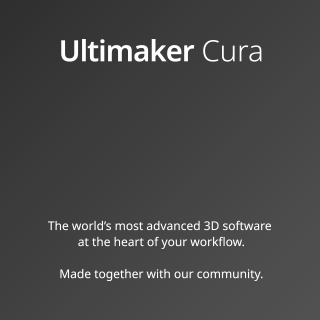
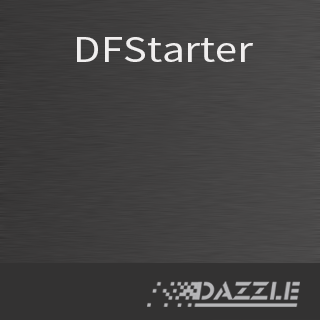
Modify Dazzle

diff --git a/resources/qml/WelcomePages/AddNetworkOrLocalPrinterContent.qml b/resources/qml/WelcomePages/AddNetworkOrLocalPrinterContent.qml
@@ -27,6 +27,7 @@ Item
         renderType: Text.NativeRendering
     }
 
+/*
     DropDownWidget
     {
         id: addNetworkPrinterDropDown
@@ -77,22 +78,30 @@ Item
             }
         }
     }
+*/
 
     DropDownWidget
     {
         id: addLocalPrinterDropDown
 
+        /*
         anchors.top: addNetworkPrinterDropDown.bottom
         anchors.left: parent.left
         anchors.right: parent.right
         anchors.topMargin: UM.Theme.getSize("default_margin").height
+        */
+        anchors.top: titleLabel.bottom
+        anchors.left: parent.left
+        anchors.right: parent.right
+        anchors.topMargin: UM.Theme.getSize("wide_margin").height
 
         title: catalog.i18nc("@label", "Add a non-networked printer")
 
-        onClicked:
-        {
-            addNetworkPrinterDropDown.contentShown = !contentShown
-        }
+//        onClicked:
+//        {
+//            addNetworkPrinterDropDown.contentShown = !contentShown
+//        }
+        contentShown: true
 
         contentComponent: localPrinterListComponent
 
@@ -135,11 +144,20 @@ Item
         enabled:
         {
             // If the network printer dropdown is expanded, make sure that there is a selected item
+            /*
             if (addNetworkPrinterDropDown.contentShown)
             {
                 return addNetworkPrinterDropDown.contentItem.currentItem != null
             }
             else
+            {
+                // Printer name cannot be empty
+                const localPrinterItem = addLocalPrinterDropDown.contentItem.currentItem
+                const isPrinterNameValid = addLocalPrinterDropDown.contentItem.isPrinterNameValid
+                return localPrinterItem != null && isPrinterNameValid
+            }
+            */
+            if (addLocalPrinterDropDown.contentShown)
             {
                 // Printer name cannot be empty
                 const localPrinterItem = addLocalPrinterDropDown.contentItem.currentItem
@@ -152,6 +170,7 @@ Item
         onClicked:
         {
             // Create a network printer or a local printer according to the selection
+            /*
             if (addNetworkPrinterDropDown.contentShown)
             {
                 // Create a network printer
@@ -165,6 +184,16 @@ Item
             else
             {
                 // Create a local printer
+                const localPrinterItem = addLocalPrinterDropDown.contentItem.currentItem
+                const printerName = addLocalPrinterDropDown.contentItem.printerName
+                if(Cura.MachineManager.addMachine(localPrinterItem.id, printerName))
+                {
+                    base.showNextPage()
+                }
+            }
+            */
+            if (addLocalPrinterDropDown.contentShown)
+            {
                 const localPrinterItem = addLocalPrinterDropDown.contentItem.currentItem
                 const printerName = addLocalPrinterDropDown.contentItem.printerName
                 if(Cura.MachineManager.addMachine(localPrinterItem.id, printerName))

diff --git a/resources/qml/MainWindow/ApplicationMenu.qml b/resources/qml/MainWindow/ApplicationMenu.qml
@@ -50,43 +50,43 @@ Item
 
         SettingsMenu { title: catalog.i18nc("@title:menu menubar:toplevel", "&Settings") }
 
-        Menu
-        {
-            id: extensionMenu
-            title: catalog.i18nc("@title:menu menubar:toplevel", "E&xtensions")
-
-            Instantiator
-            {
-                id: extensions
-                model: UM.ExtensionModel { }
-
-                Menu
-                {
-                    id: sub_menu
-                    title: model.name;
-                    visible: actions != null
-                    enabled: actions != null
-                    Instantiator
-                    {
-                        model: actions
-                        Loader
-                        {
-                            property var extensionsModel: extensions.model
-                            property var modelText: model.text
-                            property var extensionName: name
-
-                            sourceComponent: modelText.trim() == "" ? extensionsMenuSeparator : extensionsMenuItem
-                        }
-
-                        onObjectAdded: sub_menu.insertItem(index, object.item)
-                        onObjectRemoved: sub_menu.removeItem(object.item)
-                    }
-                }
-
-                onObjectAdded: extensionMenu.insertItem(index, object)
-                onObjectRemoved: extensionMenu.removeItem(object)
-            }
-        }
+//        Menu
+//        {
+//            id: extensionMenu
+//            title: catalog.i18nc("@title:menu menubar:toplevel", "E&xtensions")
+//
+//            Instantiator
+//            {
+//                id: extensions
+//                model: UM.ExtensionModel { }
+//
+//                Menu
+//                {
+//                    id: sub_menu
+//                    title: model.name;
+//                    visible: actions != null
+//                    enabled: actions != null
+//                    Instantiator
+//                    {
+//                        model: actions
+//                        Loader
+//                        {
+//                            property var extensionsModel: extensions.model
+//                            property var modelText: model.text
+//                            property var extensionName: name
+//
+//                            sourceComponent: modelText.trim() == "" ? extensionsMenuSeparator : extensionsMenuItem
+//                        }
+//
+//                        onObjectAdded: sub_menu.insertItem(index, object.item)
+//                        onObjectRemoved: sub_menu.removeItem(object.item)
+//                    }
+//                }
+//
+//                onObjectAdded: extensionMenu.insertItem(index, object)
+//                onObjectRemoved: extensionMenu.removeItem(object)
+//            }
+//        }
 
         Menu
         {

diff --git a/resources/qml/MainWindow/MainWindowHeader.qml b/resources/qml/MainWindow/MainWindowHeader.qml
@@ -19,19 +19,32 @@ Item
     implicitHeight: UM.Theme.getSize("main_window_header").height
     implicitWidth: UM.Theme.getSize("main_window_header").width
 
-    Image
-    {
-        id: logo
-        anchors.left: parent.left
-        anchors.leftMargin: UM.Theme.getSize("default_margin").width
-        anchors.verticalCenter: parent.verticalCenter
+//    Image
+//    {
+//        id: logo
+//        anchors.left: parent.left
+//        anchors.leftMargin: UM.Theme.getSize("default_margin").width
+//        anchors.verticalCenter: parent.verticalCenter
+//
+//        source: UM.Theme.getImage("logo")
+//        width: UM.Theme.getSize("logo").width
+//        height: UM.Theme.getSize("logo").height
+//        fillMode: Image.PreserveAspectFit
+//        sourceSize.width: width
+//        sourceSize.height: height
+//    }
 
-        source: UM.Theme.getImage("logo")
-        width: UM.Theme.getSize("logo").width
-        height: UM.Theme.getSize("logo").height
-        fillMode: Image.PreserveAspectFit
-        sourceSize.width: width
-        sourceSize.height: height
+// 公司logo
+    Text
+    {
+        text: "DAZZLE"
+        anchors.left: parent.left
+        anchors.leftMargin: 20
+        anchors.verticalCenter: parent.verticalCenter
+        font.family: "Microsoft YaHei"
+        font.italic: true
+        font.pointSize: 21
+        color: "white"
     }
 
     Row
@@ -83,6 +96,7 @@ Item
         ExclusiveGroup { id: mainWindowHeaderMenuGroup }
     }
 
+/*
     // Shortcut button to quick access the Toolbox
     Controls2.Button
     {
@@ -149,4 +163,5 @@ Item
             rightMargin: UM.Theme.getSize("default_margin").width
         }
     }
+*/
 }

diff --git a/resources/qml/WelcomePages/UserAgreementContent.qml b/resources/qml/WelcomePages/UserAgreementContent.qml
@@ -37,10 +37,12 @@ Item
             right: parent.right
         }
 
-        text: "<p><b>Disclaimer by Ultimaker</b></p>"
-            + "<p>Please read this disclaimer carefully.</p>"
-            + "<p>Except when otherwise stated in writing, Ultimaker provides any Ultimaker software or third party software \"As is\" without warranty of any kind. The entire risk as to the quality and performance of Ultimaker software is with you.</p>"
-            + "<p>Unless required by applicable law or agreed to in writing, in no event will Ultimaker be liable to you for damages, including any general, special, incidental, or consequential damages arising out of the use or inability to use any Ultimaker software or third party software.</p>"
+        text: "<p><b>Dazzle免责声明</b></p>"
+            + "<p>1、本软件用于我司FDM部分型号设备的操作，不对其它能用本软件控制的设备打印质量和安全进行保证。</p>"
+            + "<p>2、设备使用前需要学习操作方法。</p>"
+            + "<p>3、设备由很多的运动部件组成，部分运动部件裸露在外，有一定的风险造成人身或物品的损伤，我司不对设备使用过程承担安全保证。</p>"
+            + "<p>4、设备在使用过程中不要用手、物品阻挡机器部件的运动。</p>"
+            + "<p>5、未成年人在无成年人陪护的情况下不得使用设备。</p>"
         textFormat: Text.RichText
         wrapMode: Text.WordWrap
         font: UM.Theme.getFont("medium")

diff --git a/resources/qml/WelcomePages/WelcomeContent.qml b/resources/qml/WelcomePages/WelcomeContent.qml
@@ -26,7 +26,7 @@ Item
             id: titleLabel
             anchors.horizontalCenter: parent.horizontalCenter
             horizontalAlignment: Text.AlignHCenter
-            text: catalog.i18nc("@label", "Welcome to Ultimaker Cura")
+            text: catalog.i18nc("@label", "Welcome to Dazzle DFStarter")
             color: UM.Theme.getColor("primary_button")
             font: UM.Theme.getFont("huge")
             renderType: Text.NativeRendering
@@ -44,7 +44,7 @@ Item
             id: textLabel
             anchors.horizontalCenter: parent.horizontalCenter
             horizontalAlignment: Text.AlignHCenter
-            text: catalog.i18nc("@text", "Please follow these steps to set up\nUltimaker Cura. This will only take a few moments.")
+            text: catalog.i18nc("@text", "Please follow these steps to set up\nDazzle DFStarter. This will only take a few moments.")
             font: UM.Theme.getFont("medium")
             color: UM.Theme.getColor("text")
             renderType: Text.NativeRendering

diff --git a/resources/qml/Cura.qml b/resources/qml/Cura.qml
@@ -198,7 +198,17 @@ UM.MainWindow
                     }
                     GradientStop
                     {
+                        position: 0.4
+                        color: UM.Theme.getColor("main_window_header_background_gradient")
+                    }
+                    GradientStop
+                    {
                         position: 0.5
+                        color: UM.Theme.getColor("main_window_header_background_gradient")
+                    }
+                    GradientStop
+                    {
+                        position: 0.6
                         color: UM.Theme.getColor("main_window_header_background_gradient")
                     }
                     GradientStop

diff --git a/resources/qml/WelcomePages/AddLocalPrinterScrollView.qml b/resources/qml/WelcomePages/AddLocalPrinterScrollView.qml
@@ -100,7 +100,7 @@ Item
                 model: UM.DefinitionContainersModel
                 {
                     id: machineDefinitionsModel
-                    filter: { "visible": true }
+                    filter: { "visible": true , "manufacturer": "Dazzle"}
                     sectionProperty: "manufacturer"
                     preferredSections: preferredCategories
                 }
@@ -272,6 +272,7 @@ Item
                 {
                     id: printerNameTextField
                     placeholderText: catalog.i18nc("@text", "Please name your printer")
+                    width: 80
                     maximumLength: 40
                     validator: RegExpValidator
                     {

diff --git a/cura/UI/WelcomePagesModel.py b/cura/UI/WelcomePagesModel.py
@@ -233,6 +233,7 @@ class WelcomePagesModel(ListModel):
                 self.shouldShowWelcomeFlowChanged.emit()
 
         # All pages
+        '''
         all_pages_list = [{"id": "welcome",
                            "page_url": self._getBuiltinWelcomePagePath("WelcomeContent.qml"),
                            },
@@ -261,6 +262,22 @@ class WelcomePagesModel(ListModel):
                            "page_url": self._getBuiltinWelcomePagePath("AddCloudPrintersView.qml"),
                            "is_final_page": True,  # If we end up in this page, the next button will close the dialog
                            "next_page_button_text": self._catalog.i18nc("@action:button", "Finish"),
+                           },
+                          {"id": "machine_actions",
+                           "page_url": self._getBuiltinWelcomePagePath("FirstStartMachineActionsContent.qml"),
+                           "should_show_function": self.shouldShowMachineActions,
+                           },
+                          ]
+        '''
+        all_pages_list = [{"id": "welcome",
+                           "page_url": self._getBuiltinWelcomePagePath("WelcomeContent.qml"),
+                           },
+                          {"id": "user_agreement",
+                           "page_url": self._getBuiltinWelcomePagePath("UserAgreementContent.qml"),
+                           },
+                          {"id": "add_network_or_local_printer",
+                           "page_url": self._getBuiltinWelcomePagePath("AddNetworkOrLocalPrinterContent.qml"),
+                           "next_page_id": "machine_actions",
                            },
                           {"id": "machine_actions",
                            "page_url": self._getBuiltinWelcomePagePath("FirstStartMachineActionsContent.qml"),

diff --git a/cura/UI/CuraSplashScreen.py b/cura/UI/CuraSplashScreen.py
@@ -70,7 +70,7 @@ class CuraSplashScreen(QSplashScreen):
         font = QFont()  # Using system-default font here
         font.setPixelSize(18)
         painter.setFont(font)
-        painter.drawText(60, 70 + self._version_y_offset, 330 * self._scale, 230 * self._scale, Qt.AlignLeft | Qt.AlignTop, version[0])
+        painter.drawText(80, 80 + self._version_y_offset, 330 * self._scale, 230 * self._scale, Qt.AlignLeft | Qt.AlignTop, version[0])
         if len(version) > 1:
             font.setPixelSize(16)
             painter.setFont(font)

diff --git a/cura/ApplicationMetadata.py b/cura/ApplicationMetadata.py
@@ -4,8 +4,8 @@
 # ---------
 # General constants used in Cura
 # ---------
-DEFAULT_CURA_APP_NAME = "cura"
-DEFAULT_CURA_DISPLAY_NAME = "Ultimaker Cura"
+DEFAULT_CURA_APP_NAME = "DFStarter"
+DEFAULT_CURA_DISPLAY_NAME = "Dazzle DFStarter"
 DEFAULT_CURA_VERSION = "master"
 DEFAULT_CURA_BUILD_TYPE = ""
 DEFAULT_CURA_DEBUG_MODE = False
